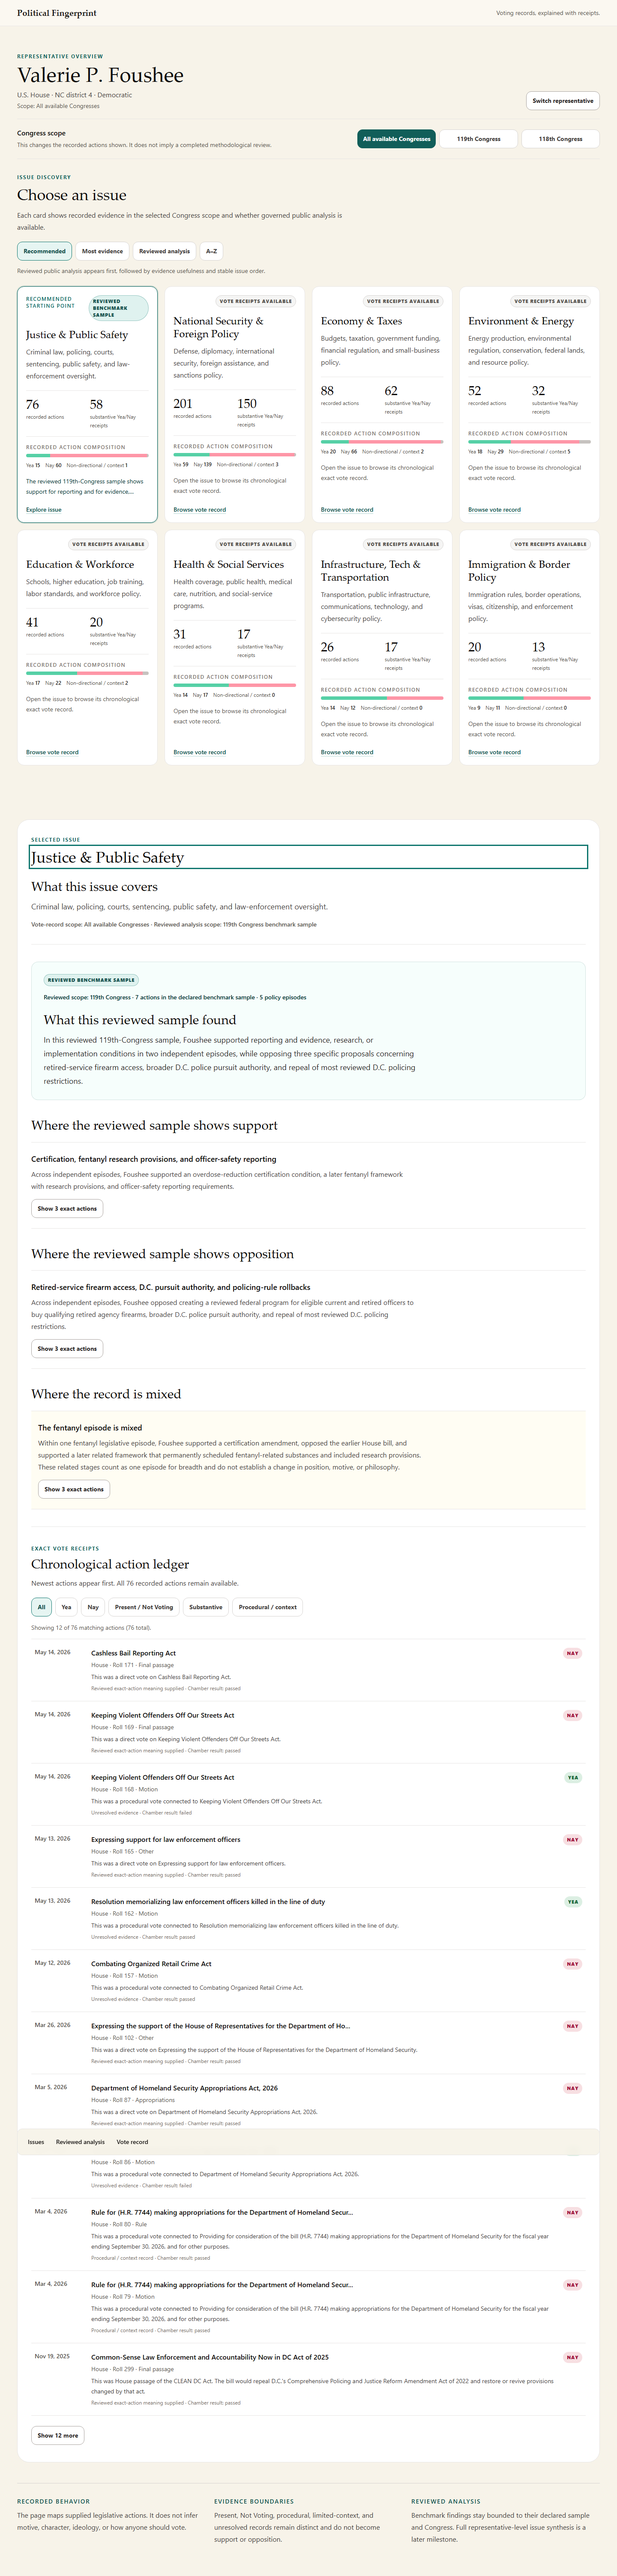
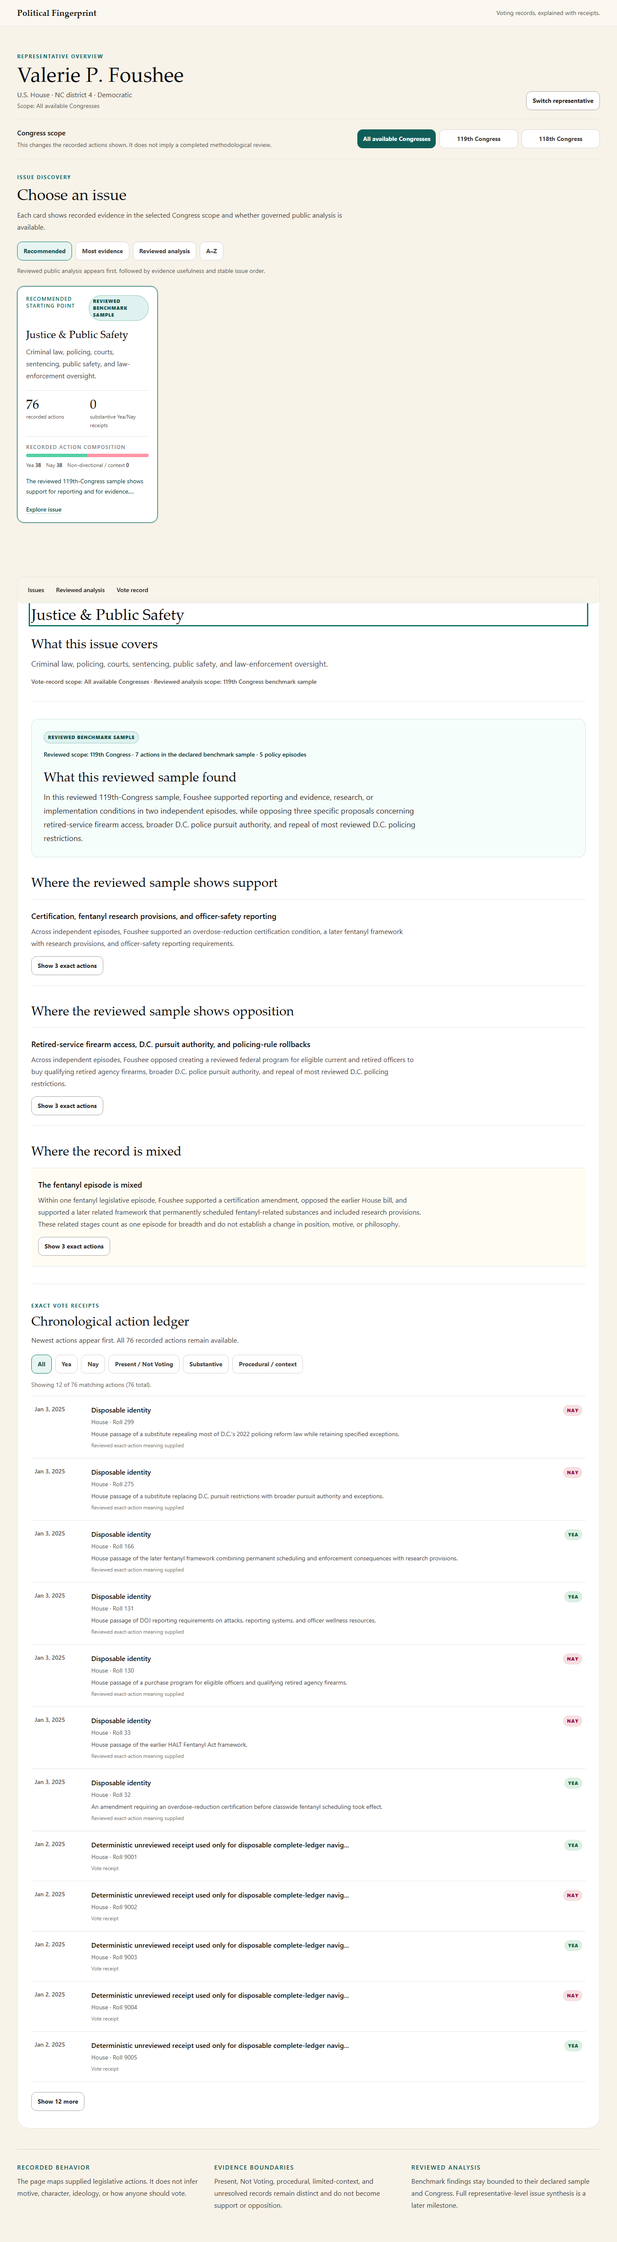
docs(review): refresh Frontend Pass A evidence

diff --git a/docs/review_packets/frontend_pass_a_v1.md b/docs/review_packets/frontend_pass_a_v1.md
@@ -2,175 +2,154 @@
 
 ## Review decision requested
 
-Review the implemented representative journey using the matching branch
-backend and the durable local full-stack evidence recorded below. PR #121 must
-remain draft during this review. This packet does not request editorial
-approval, publication activation, production data writes, manual deployment,
-or a full-record methodology decision.
+Review the corrected representative journey on draft PR #121. This packet does
+not request editorial approval, publication activation, production data writes,
+manual deployment, merge, or ready-for-review status.
 
 ## Delivery identity and preview boundary
 
 - PR: `dhart54/political_fingerprint#121`
 - Branch: `codex/frontend-pass-a-representative-issue-foundation`
-- Captured runtime commit:
-  `9f79bcf75c60ce92bd19d7ce930acc38d206dfd8`
+- Corrected runtime commit:
+  `d49de4c07634675de7951c80ef94226df02e1dc5`
 - Base: `13a51154c3c5dfce38ca717db1f3819b1fef9e23`
 
-PR #121 changes both backend and frontend contracts. Vercel deploys only the
-frontend branch and has no matching branch backend, so its representative
-search is a frontend-shell check rather than authoritative end-to-end product
-proof. No public fixture API, wildcard CORS policy, compatibility proxy, or
-temporary backend is added for this PR.
+PR #121 changes backend and frontend contracts. Vercel deploys only the
+frontend branch and has no matching branch backend, so its preview is a
+frontend-shell check rather than authoritative end-to-end proof. The
+authoritative product evidence is the matching commit on loopback, a disposable
+PostgreSQL dataset, real Uvicorn, and real Chromium.
 
-The authoritative product proof is the matching branch backend on loopback,
-the established live-shaped local data path, and real Chromium tests. After
-merge, the automatically deployed matching backend/frontend pair should
-receive a separate bounded public smoke validation.
+## Corrections under review
 
-## Implemented surface
+### Governed exact-action receipt projection
 
-- Finder-only initial route with explicit ZIP/name search and no default sample.
-- Compact selected representative header and truthful Congress scope.
-- Responsive, neutral issue overview cards with deterministic discovery modes.
-- Conditional reviewed-analysis section governed by the public review-state
-  adapter.
-- Conditional future policy-episode presentation boundary.
-- Newest-first exact action ledger with filters, progressive disclosure,
-  receipt sources, canonical highlighting, and one expanded row at a time.
-- URL state for representative, issue, and scope with refresh and browser
-  history restoration.
+The Roll 32 contradiction came from two public surfaces reading different
+layers: reviewed findings used the governed full-record interpretation while
+the receipt rendered a stale raw `limited_context` row. The public catalog now
+contains a closed projection for every governed action, bound to member, issue,
+Congress scope, published artifact, canonical action ID, interpretation ID and
+digest, vote sources, and action-meaning sources.
 
-The visual and component rationale is recorded in
-`docs/design/frontend_pass_a_v1.md`.
+The selector requires agreement across all seven reviewed actions, the
+published sample, source contract, display mappings, scope, and artifact
+identity. Missing or conflicting state fails closed to receipts-only. The API
+preserves the original database row under `raw_evidence`, exposes the governed
+projection separately, and replaces only public display fields. React renders
+that supplied projection and does not infer analytical meaning.
 
-## Trust-boundary review
+Roll 32 now identifies `house:119:1:32`, the overdose-reduction certification
+amendment, `clerk_roll_032`, and `congress_hamdt5`; it no longer displays the
+stale limited-context interpretation or an internal row number.
 
-The generated public catalog is built only after merged full-record validation
-and contains a closed public field set. It cannot activate analytical copy:
-the public selector first requires a separately eligible publication row and
-then requires exact catalog identity, scope, semantic tier, and teaser
-agreement. Missing or mismatched state returns receipts-only.
+### Representative name search
 
-F000477 Justice remains a seven-action, five-episode benchmark sample. The UI
-uses `Reviewed benchmark sample`, never `Full review complete` or `Full issue
-interpretation available`. No full issue synthesis is exposed. `scope=118`
-cannot borrow the 119th-Congress finding.
+Database and fallback search now share deterministic Unicode token matching.
+Case, repeated whitespace, punctuation, apostrophes, hyphens, diacritics, and
+intervening middle initials normalize consistently. Every query token must be
+present, but token order is not significant, so `Valerie Foushee`,
+`Valerie P. Foushee`, and `Foushee Valerie` resolve the same representative
+without fuzzy guessing.
 
-React receives repeated-pattern/trajectory semantic roles and direction from
-compiled backend meaning. It does not classify prose, infer direction from
-Yea/Nay, or change ordering by party.
+### Zero-match exact-action behavior
 
-The PostgreSQL activation and real-Uvicorn proof contracts require the closed
-enriched finding shape. Repeated support is `behavioral/support`, repeated
-opposition is `behavioral/opposition`, and the fentanyl trajectory is
-`behavioral/mixed`. Missing proposition bindings fail closed.
-
-## Episode gap inventory
-
-The live API intentionally returns `policy_episodes: []`. The component and
-browser fixture cover title, question, member record, outcome, policy change,
-affected entities, current status, both argument summaries, one-sided-source
-limitation, caveats, official sources, and oldest-first exact actions. A later
-milestone must define the reviewed backend episode payload and its approval and
-publication gates before live episode prose appears.
+Finding controls still expose the linked count and open the first matching
+receipt when one, two, or three actions resolve. If none resolve, the ledger
+now remains on the full record, clears stale highlights and expansion, and
+announces the fallback through an accessible status message. A normal filter
+choice or Congress-scope change also clears stale exact-action state.
 
 ## Durable visual review package
 
-The bounded package is
-`docs/review_packets/frontend_pass_a_v1/screenshots/`, with identities,
-viewports, data-source details, commands, and SHA-256 digests in
+The capture package is
+`docs/review_packets/frontend_pass_a_v1/screenshots/`; its exact identities,
+viewports, data boundary, command, and SHA-256 digests are recorded in
 `docs/review_packets/frontend_pass_a_v1/manifest.json`.
 
-The capture used:
+The final capture used:
 
 - frontend `http://127.0.0.1:3100`;
 - matching branch backend `http://127.0.0.1:8000`;
-- established live-shaped local data;
-- ZIP `27701`, representative `leg_valerie_p_foushee`, and issue
-  `JUSTICE_PUBLIC_SAFETY`;
-- no production access and no public fixture route.
+- disposable loopback PostgreSQL only;
+- seven governed Foushee receipts plus 69 explicitly unreviewed navigation
+  receipts, for a deterministic 76-action ledger;
+- no public fixture route and no production write.
 
 Screenshot identities:
 
-- `01-finder-1440.png`: finder at 1440x1000;
-- `02-selected-overview-recommended-1440.png`: compact selected header,
-  Recommended grid, and reviewed Justice card;
+- `01-finder-full-name-results-1440.png`: ordinary full-name search;
+- `02-selected-overview-recommended-1440.png`: selected header and reviewed
+  Justice card;
 - `03-visible-focus-issue-selection-1440.png`: visible keyboard focus;
-- `04-justice-detail-ledger-1440.png`: Justice detail, support, opposition,
-  mixed finding, global evidence limits, and chronological ledger;
-- `05-exact-actions-focused-1440.png`: three exact actions, focused ledger,
-  newest expanded receipt, and canonical identity;
-- `06-returned-to-complete-record-1440.png`: one-click return to all 76
-  actions;
-- `07-filtered-ledger-1024.png`, `08-filtered-ledger-390.png`, and
-  `09-filtered-ledger-320.png`: responsive cards, sticky navigation, filtered
-  ledger, and expanded receipt;
-- `10-effective-zoom-200.png`: 200% effective zoom and accessible matched
-  count.
+- `04-justice-detail-ledger-1440.png`: reviewed analysis and full ledger;
+- `05-exact-actions-focused-1440.png`: three matches and first receipt open;
+- `06-corrected-roll-32-expanded-1440.png`: corrected governed Roll 32 receipt;
+- `07-returned-to-complete-record-1440.png`: one-click return to all 76 actions;
+- `08-filtered-ledger-1024.png`: tablet layout;
+- `09-corrected-roll-32-expanded-390.png`: mobile governed receipt;
+- `10-filtered-ledger-320.png`: narrow mobile layout;
+- `11-effective-zoom-200.png`: 200% browser zoom;
+- `12-zero-match-fallback-full-ledger-1440.png`: accessible zero-match fallback.
 
 The capture asserts no horizontal overflow, no profile image, no deferred
-Across Congresses, Compare, Preferences, or Alerts tools, keyboard issue and
-exact-action focus transfer, reduced-motion scrolling, and the accessible
-matched-action count.
+tools, keyboard focus transfer, reduced-motion scrolling, accessible matched
+counts, all three exact actions, automatic first-receipt expansion, and the
+one-click return to the complete record.
+
+## Environment-boundary note
+
+During an earlier validation attempt, the local backend `.env` was discovered
+to point to a remote Supabase pooler. Read-only requests had already occurred
+before that was detected. Work stopped immediately; no write was made, and all
+screenshots from that path were discarded. The final evidence in this packet
+was rebuilt from a verified loopback-only disposable database. The manifest
+distinguishes the final capture boundary from this validation incident.
 
 ## Validation evidence
 
 - Deterministic public review-state catalog build/check: passed.
-- Semantic pipeline: all seven schema, Semantic IR, full-record, reference,
-  contract-test, documentation, and terminology commands passed.
-- Focused presentation, catalog, profile/search, and API tests: 105 passed.
-- Publication activation PostgreSQL suite: 23 passed with no skips.
-- PostgreSQL row-contract and owned-lifecycle fault tests: 58 passed.
-- Fresh disposable backup evidence and authoritative owned-lifecycle real-
-  Uvicorn proof: passed; the exact baseline and fingerprint were restored.
-- Frontend unit tests: 106 passed.
-- Lint: zero errors and eight pre-existing warnings in deferred components.
+- Semantic validation pipeline: 7 checks passed.
+- Focused backend/API validation: 178 passed; the final correction-focused
+  rerun was 29 passed.
+- Publication activation PostgreSQL suite: 23 passed.
+- PostgreSQL row-contract and lifecycle validation: 58 passed.
+- Fresh backup chain and authoritative owned-lifecycle real-Uvicorn proof for
+  `d49de4c07634675de7951c80ef94226df02e1dc5`: passed, including exact
+  activation, rollback, baseline restoration, Uvicorn stop, and Docker resource
+  absence.
+- Frontend unit tests: 110 passed.
+- Frontend Pass A browser suite: 15 passed and 1 opt-in capture case skipped.
+- Cutover browser suite: 3 passed; IR presentation suite: 4 passed.
+- Final loopback live-data capture: 1 passed across 1440, 1024, 390, 320,
+  keyboard focus, reduced motion, zero-match fallback, and 200% zoom.
+- Lint: 0 errors and 8 unchanged warnings in deferred components.
 - Production frontend build: passed.
-- Cutover browser suite: 3 passed. IR presentation suite: 4 passed. Pass A
-  suite: 12 passed and the opt-in capture case skipped as designed.
-- Live local-data visual capture: 1 passed, including 1440, 1024, 390, 320,
-  keyboard focus, reduced motion, and 200% effective zoom checks.
-- Documentation and full-record terminology governance: passed.
-- Repository parsing: 249 JSON files and 2 YAML files passed.
-- Screenshot integrity: all 10 SHA-256 digests matched the manifest.
-- Final Docker proof-resource and disposable-database absence checks: passed.
-- Final status, intended-file diff, and `git diff --check`: passed.
+- Repository parsing: 249 JSON and 2 YAML files passed.
+- Final screenshot hashes, intended-file diff, and `git diff --check`: passed.
 
-GitHub and Vercel check results are recorded on PR #121 after the delivery-gate
-commit is pushed.
+## Known review limitations
 
-## Known visual imperfections
-
-- The selected representative journey is intentionally long on 390px and
-  320px screens because it preserves the complete issue-discovery grid before
-  the selected issue detail.
-- The expanded receipt uses a narrow reading column on desktop, leaving
-  deliberate unused space to the right.
-- The governed live presentation currently supplies no issue-specific
-  limitation cards. The full-page evidence instead captures the global
-  `Evidence boundaries` and `Reviewed analysis` limitation hierarchy.
-- A full-page screenshot can show the sticky section navigation at an
+- The disposable navigation dataset deliberately labels its raw measure rows
+  as disposable identities and reports zero substantive Yea/Nay receipts on the
+  issue card. It exists to prove navigation and projection behavior; it is not
+  a production-data content sample. The seven governed projections and their
+  official identities remain exact.
+- The selected journey and expanded receipt are long on 390px and 320px
+  screens because the complete discovery and evidence hierarchy is preserved.
+- The receipt uses a deliberately narrow desktop reading column.
+- Full-page screenshots can catch the sticky section navigation at an
   intermediate document position; normal viewport scrolling keeps it at the
-  top edge as intended.
-
-## Deferred, unchanged authority
-
-Comparison, preference/alignment, race, alerts, contact, methodology explorers,
-and across-Congress analytical tools remain outside the primary route. No
-production/publication registry, accepted Semantic IR, active presentation,
-approval receipt, or source report is intentionally changed by this milestone.
+  top edge.
+- The Vercel preview cannot prove representative search or governed receipts
+  without the matching backend deployment.
 
 ## Reviewer checklist
 
-- [ ] Finder is the only initial primary task.
-- [ ] Representative, issue, and scope restore from the URL.
-- [ ] Overview cards are descriptive and do not rank ideological or vote
-      direction.
-- [ ] Foushee Justice is visibly framed as a reviewed benchmark sample.
-- [ ] `scope=118` remains receipts-only.
-- [ ] Findings link to exact receipts without hiding the complete record.
-- [ ] Present, Not Voting, procedural, and limited-context states remain
-      distinct.
-- [ ] Mobile and zoom views remain readable with no horizontal overflow.
-- [ ] Required GitHub checks are green; Vercel is reviewed only as a
-      non-authoritative frontend shell.
+- [ ] Full-name search resolves Valerie P. Foushee.
+- [ ] Roll 32 shows the governed certification meaning and official identities.
+- [ ] Findings expose exact-action counts and open the first matching receipt.
+- [ ] Zero matches retain and announce the complete ledger.
+- [ ] Returning to all actions remains one click away.
+- [ ] Scope changes clear stale exact-action state.
+- [ ] Keyboard, reduced-motion, mobile, and 200% zoom behavior remain usable.
+- [ ] Required GitHub checks are green; Vercel is treated as a frontend shell.
